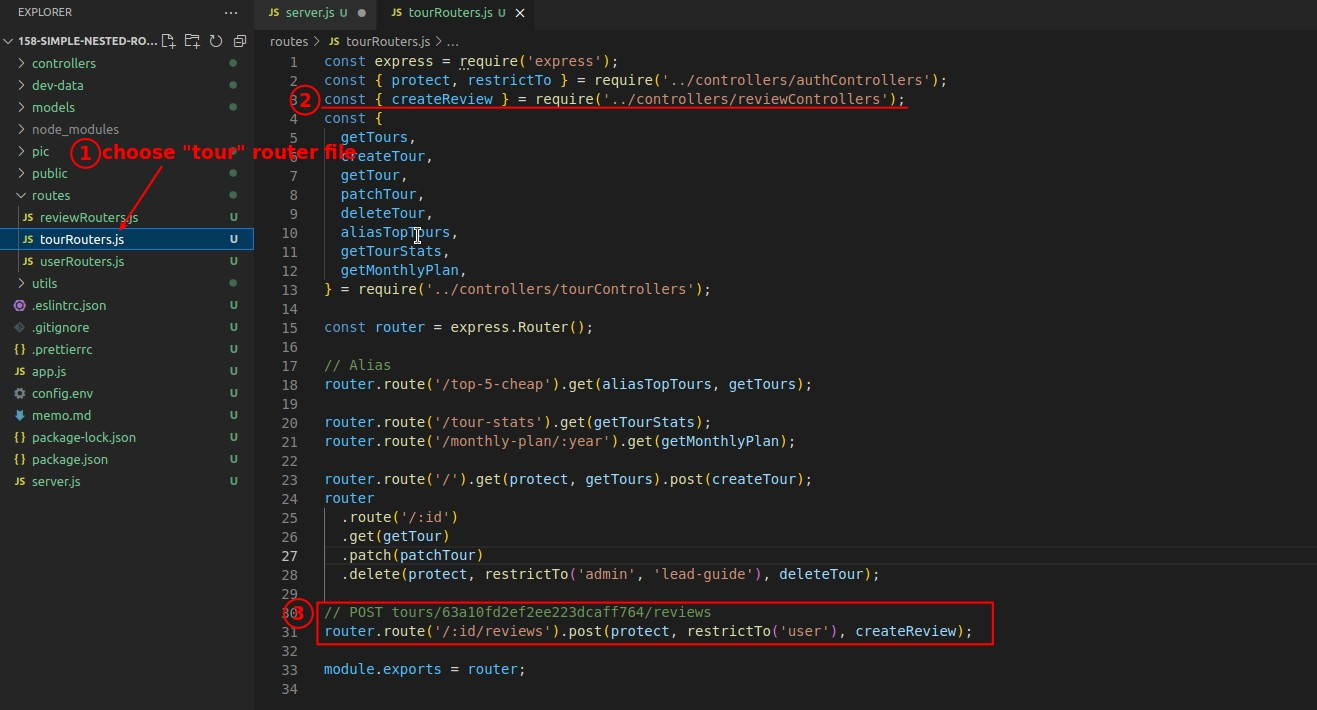
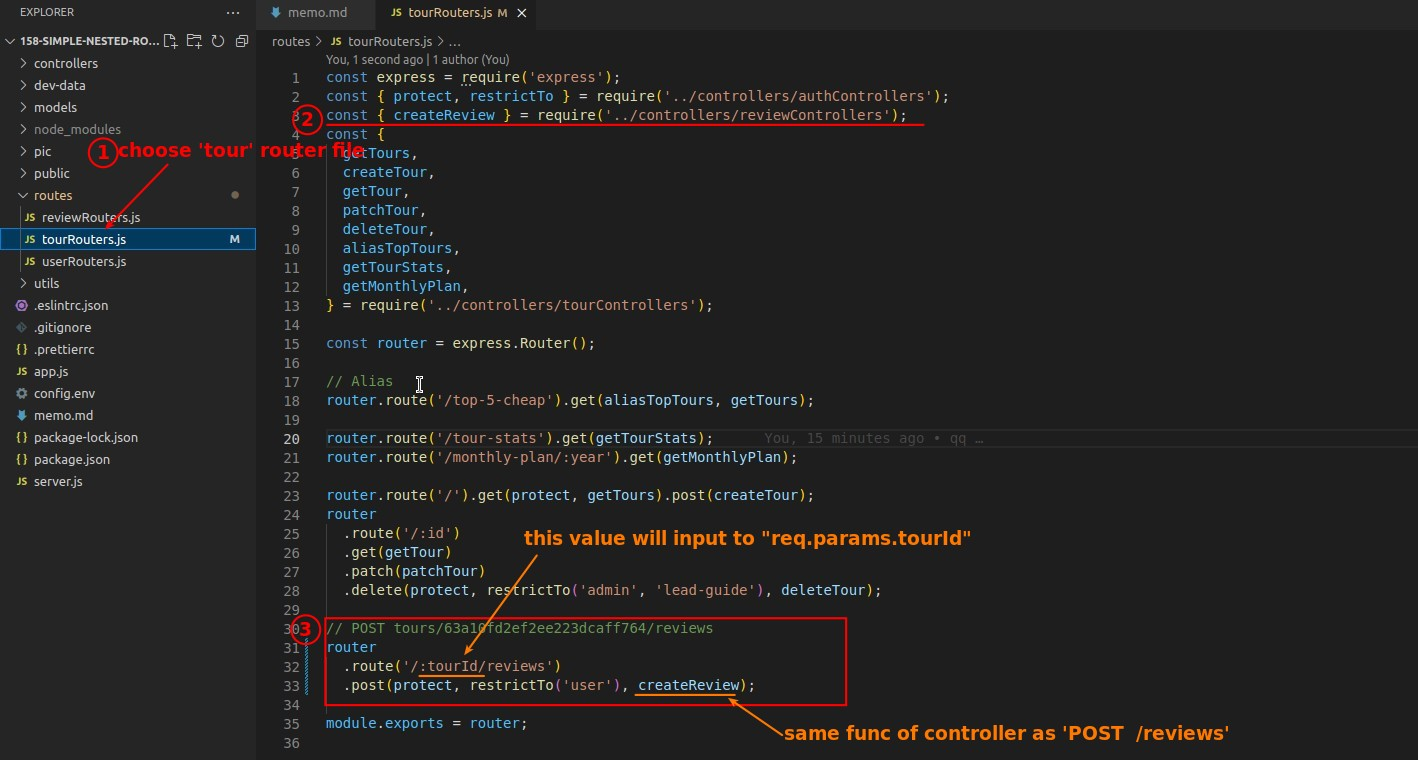
qq

Changed region(s): [[0.0, 0.0, 0.8717, 0.9915]]

diff --git a/11-model-data-and-adv-mongoose/158-simple-nested-routes/routes/tourRouters.js b/11-model-data-and-adv-mongoose/158-simple-nested-routes/routes/tourRouters.js
@@ -28,6 +28,8 @@ router
   .delete(protect, restrictTo('admin', 'lead-guide'), deleteTour);
 
 // POST tours/63a10fd2ef2ee223dcaff764/reviews
-router.route('/:id/reviews').post(protect, restrictTo('user'), createReview);
+router
+  .route('/:tourId/reviews')
+  .post(protect, restrictTo('user'), createReview);
 
 module.exports = router;
